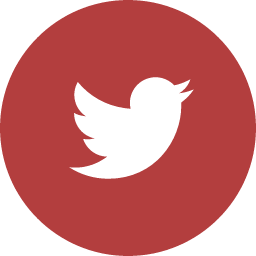
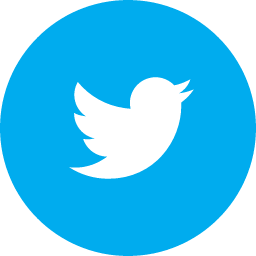
Fix design

diff --git a/@static/scripts/script.js b/@static/scripts/script.js
@@ -1,9 +1,9 @@
-const SERVICE_ID = "service_dyrehwq";
-const TEMPLATE_ID = "template_u2qacci";
-const USER_ID = "user_02eyyE8jmRmh9YahKnlWp";
-// const SERVICE_ID = "service_84x5u2b";
-// const TEMPLATE_ID = "template_av6h238";
-// const USER_ID = "user_UkTuhFWjCTbCevESyJRCJ";
+// const SERVICE_ID = "service_dyrehwq";
+// const TEMPLATE_ID = "template_u2qacci";
+// const USER_ID = "user_02eyyE8jmRmh9YahKnlWp";
+const SERVICE_ID = "service_84x5u2b";
+const TEMPLATE_ID = "template_av6h238";
+const USER_ID = "user_UkTuhFWjCTbCevESyJRCJ";
 
 const id_type = document.querySelector("#id-type");
 const id_form = document.querySelector("#id-form");

diff --git a/@static/styles/scss/_design.scss b/@static/styles/scss/_design.scss
@@ -376,7 +376,6 @@
     @include pc() {
       font-size: 20px;
     }
-    color: $primary-color;
     &::before {
       content: "";
       min-width: 32px;
@@ -384,12 +383,14 @@
       margin: 0 8px 0 0;
     }
     &--youtube {
+      color: $primary-color;
       &::before {
         background: url("../../images/sns_youtube.png") no-repeat center
           center/contain;
       }
     }
     &--twitter {
+      color: #00acee;
       &::before {
         background: url("../../images/sns_twitter.png") no-repeat center
           center/contain;

diff --git a/@static/styles/css/style.css b/@static/styles/css/style.css
@@ -1371,7 +1371,6 @@ dt {
 
 .delegate__link {
   font-size: 18px;
-  color: #b33e3e;
 }
 
 @media screen and (min-width: 1024px) {
@@ -1387,8 +1386,16 @@ dt {
   margin: 0 8px 0 0;
 }
 
+.delegate__link--youtube {
+  color: #b33e3e;
+}
+
 .delegate__link--youtube::before {
   background: url("../../images/sns_youtube.png") no-repeat center center/contain;
+}
+
+.delegate__link--twitter {
+  color: #00acee;
 }
 
 .delegate__link--twitter::before {
